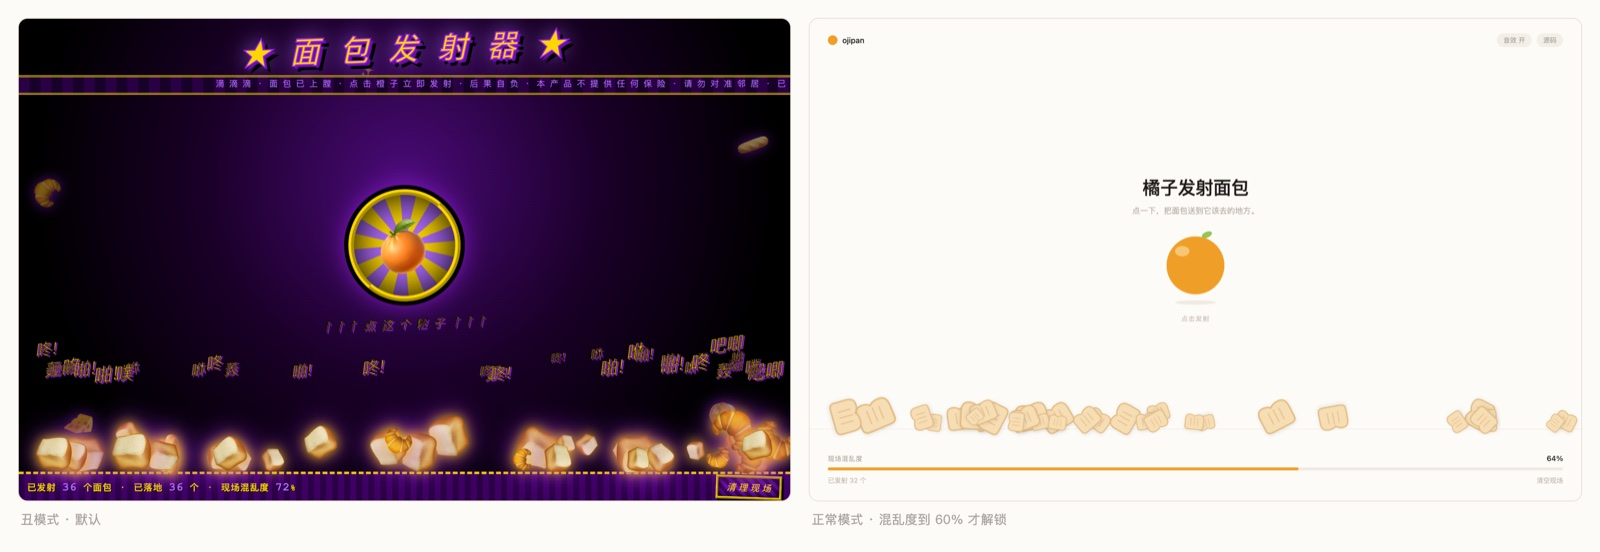
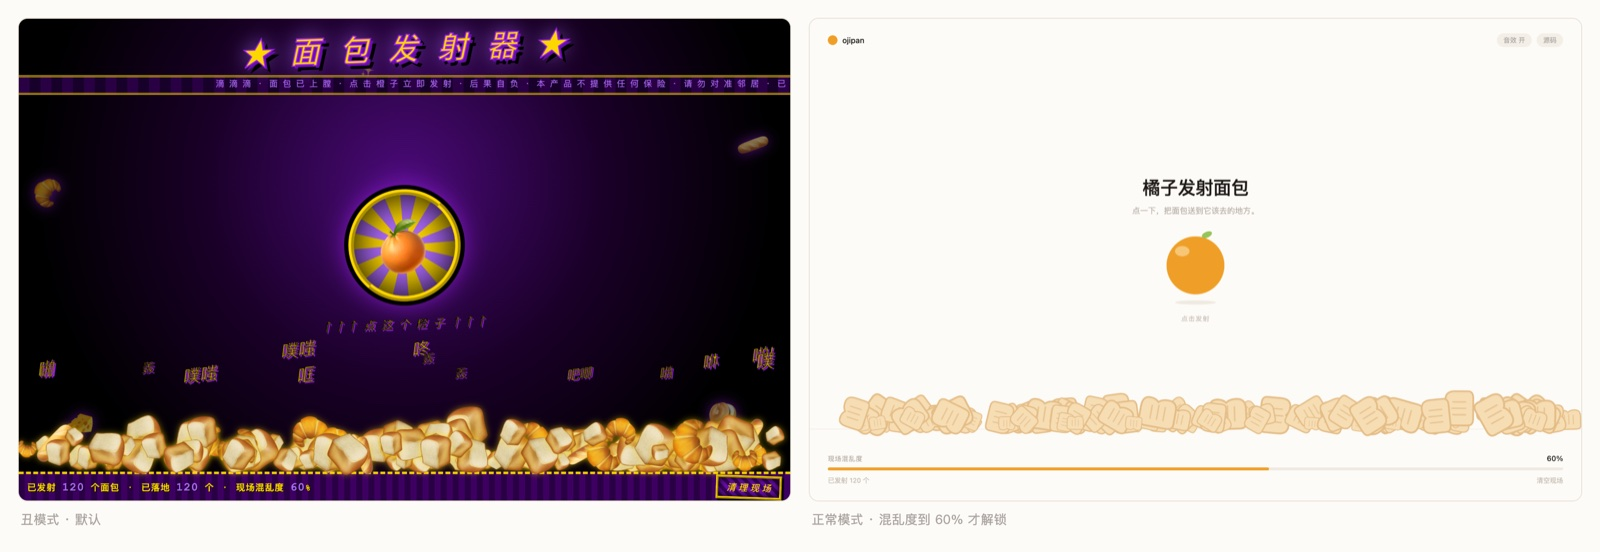
feat: 面包改为 0.5 点混乱度，双向切模式都清空，降低大数量下的渲染开销

diff --git a/index.html b/index.html
@@ -165,6 +165,8 @@
   body.mode-ugly .bread{
     filter:drop-shadow(0 0 10px rgba(255,215,0,.85)) drop-shadow(0 0 22px rgba(160,32,240,.6));
   }
+  body.mode-ugly .bread.rest{filter:drop-shadow(0 0 5px rgba(255,215,0,.5));}
+  body.mode-clean .bread.rest{filter:none;}
   body.mode-clean .bread{
     filter:drop-shadow(0 2px 3px rgba(28,25,23,.10));
   }
@@ -354,7 +356,7 @@
   measure();
   window.addEventListener('resize', function () { measure(); realign(); });
 
-  function confusion() { return Math.min(100, Math.round(landed * 2)); }
+  function confusion() { return Math.min(100, Math.round(landed * 0.5)); }
 
   var AC = null;
   function blip(f) {
@@ -492,7 +494,9 @@
           it.vr *= 0.55;
           it.bounces++;
           if (it.bounces === 1) {
-            if (mode === 'ugly') pop(it.x, floor, WHACK[Math.floor(Math.random() * WHACK.length)], 18 + Math.random() * 14);
+            if (mode === 'ugly' && Math.random() < 0.4 && sky.getElementsByClassName('pop').length < 14) {
+              pop(it.x, floor, WHACK[Math.floor(Math.random() * WHACK.length)], 18 + Math.random() * 14);
+            }
             blip(140);
           }
         } else {
@@ -502,6 +506,7 @@
           if (Math.abs(it.vx) < 0.35 && Math.abs(it.vr) < 0.6) {
             it.dead = true;
             it.vx = 0; it.vr = 0;
+            it.el.classList.add('rest');
             landed++;
             syncUI();
             if (!SNAP) checkTrigger();
@@ -511,10 +516,10 @@
     }
   }
 
-  function paint() {
+  function paint(force) {
     for (var i = 0; i < items.length; i++) {
       var it = items[i];
-      if (it.gone) continue;
+      if (it.gone || (it.dead && !force)) continue;
       it.el.style.left = it.x.toFixed(1) + 'px';
       it.el.style.top = it.y.toFixed(1) + 'px';
       it.el.style.transform = 'translate(-50%,-50%) rotate(' + it.rot.toFixed(1) + 'deg)';
@@ -526,7 +531,7 @@
       var it = items[i];
       if (it.dead) it.y = GY - it.size * 0.34 - it.jit;
     }
-    paint();
+    paint(true);
   }
 
   function loop() {
@@ -547,12 +552,10 @@
       document.body.classList.remove('mode-ugly', 'mode-clean');
       document.body.classList.add('mode-' + to);
       measure();
+      wipe();
       if (to === 'clean') {
-        wipe();
         crashed = false;
         asked = true;
-      } else {
-        realign();
       }
       syncUI();
       veil.className = '';
@@ -576,6 +579,7 @@
     for (var i = 0; i < items.length; i++) {
       var it = items[i];
       it.dead = false;
+      it.el.classList.remove('rest');
       it.vy = 9 + Math.random() * 9;
       it.vx = it.vx * 1.6 + (Math.random() - 0.5) * 8;
       it.vr = (Math.random() - 0.5) * 30;
@@ -647,9 +651,8 @@
       document.body.classList.add('mode-clean');
       measure();
     }
-    var plan = mode === 'clean'
-      ? [22, 26, 30, 19, 27, 24, 31, 20, 25, 28, 16, 23, 29, 18, 26, 21, 30, 24, 27, 19, 25, 17, 28, 22, 26, 20, 29, 23, 18, 27, 21, 25]
-      : [22, 18, 26, 30, 19, 24, 31, 17, 27, 20, 23, 25, 28, 16, 29, 21, 26, 19, 24, 30, 18, 27, 22, 25, 28, 20, 23, 26, 17, 29, 21, 24, 30, 19, 27, 22];
+    var plan = [];
+    for (var q = 0; q < 120; q++) plan.push(16 + Math.random() * 16);
     var ox = W * 0.5, oy = mode === 'clean' ? H * 0.44 : H * 0.47;
     for (var p = 0; p < plan.length; p++) {
       shot(ox + (Math.random() - 0.5) * W * 0.24, oy, plan[p]);

diff --git a/README.md b/README.md
@@ -25,7 +25,7 @@ python3 -m http.server 8000
 | 阶段 | 触发 | 发生什么 |
 | --- | --- | --- |
 | 丑模式 | 混乱度到 60% | 弹一个同样丑的窗，问你要不要换个正常点的 |
-| 切到正常模式 | — | 地上的面包全部清空，混乱度归零，重新开始积累 |
+| 两个模式互切 | — | 地上的面包一律清空，混乱度归零，重新开始积累 |
 | 点了「不换」 | — | 弹窗不再骚扰，底栏多一个「切正常模式」随时能进 |
 | 正常模式 | 混乱度满 100% | 抖一下崩回丑的，地上所有面包掉出屏幕 |
 
@@ -39,7 +39,7 @@ python3 -m http.server 8000
 | 等它落地 | 弹两下停住；丑模式下顺手甩一句「咚」「啪」「吧唧」 |
 | 清空现场 | 清空面包，计数和触发标记一起归零 |
 
-混乱度按落地面包数算，1 个算 2 点：50 个满 100%，30 个到 60%。
+混乱度按落地面包数算，1 个算 0.5 点：200 个满 100%，120 个到 60%。
 
 ## URL 参数
 
@@ -57,6 +57,7 @@ python3 -m http.server 8000
 - 面包只落在屏幕底部，天花板不接客。
 - 窄屏能跑但没有专门适配，手机上橘子显得特别大。
 - 正常模式的面包停在一条线上，不会互相堆叠。
+- 面包堆到两百个时，丑版的紫色光晕会退化成一圈小光，纯粹为了不掉帧。
 
 ## License
 
